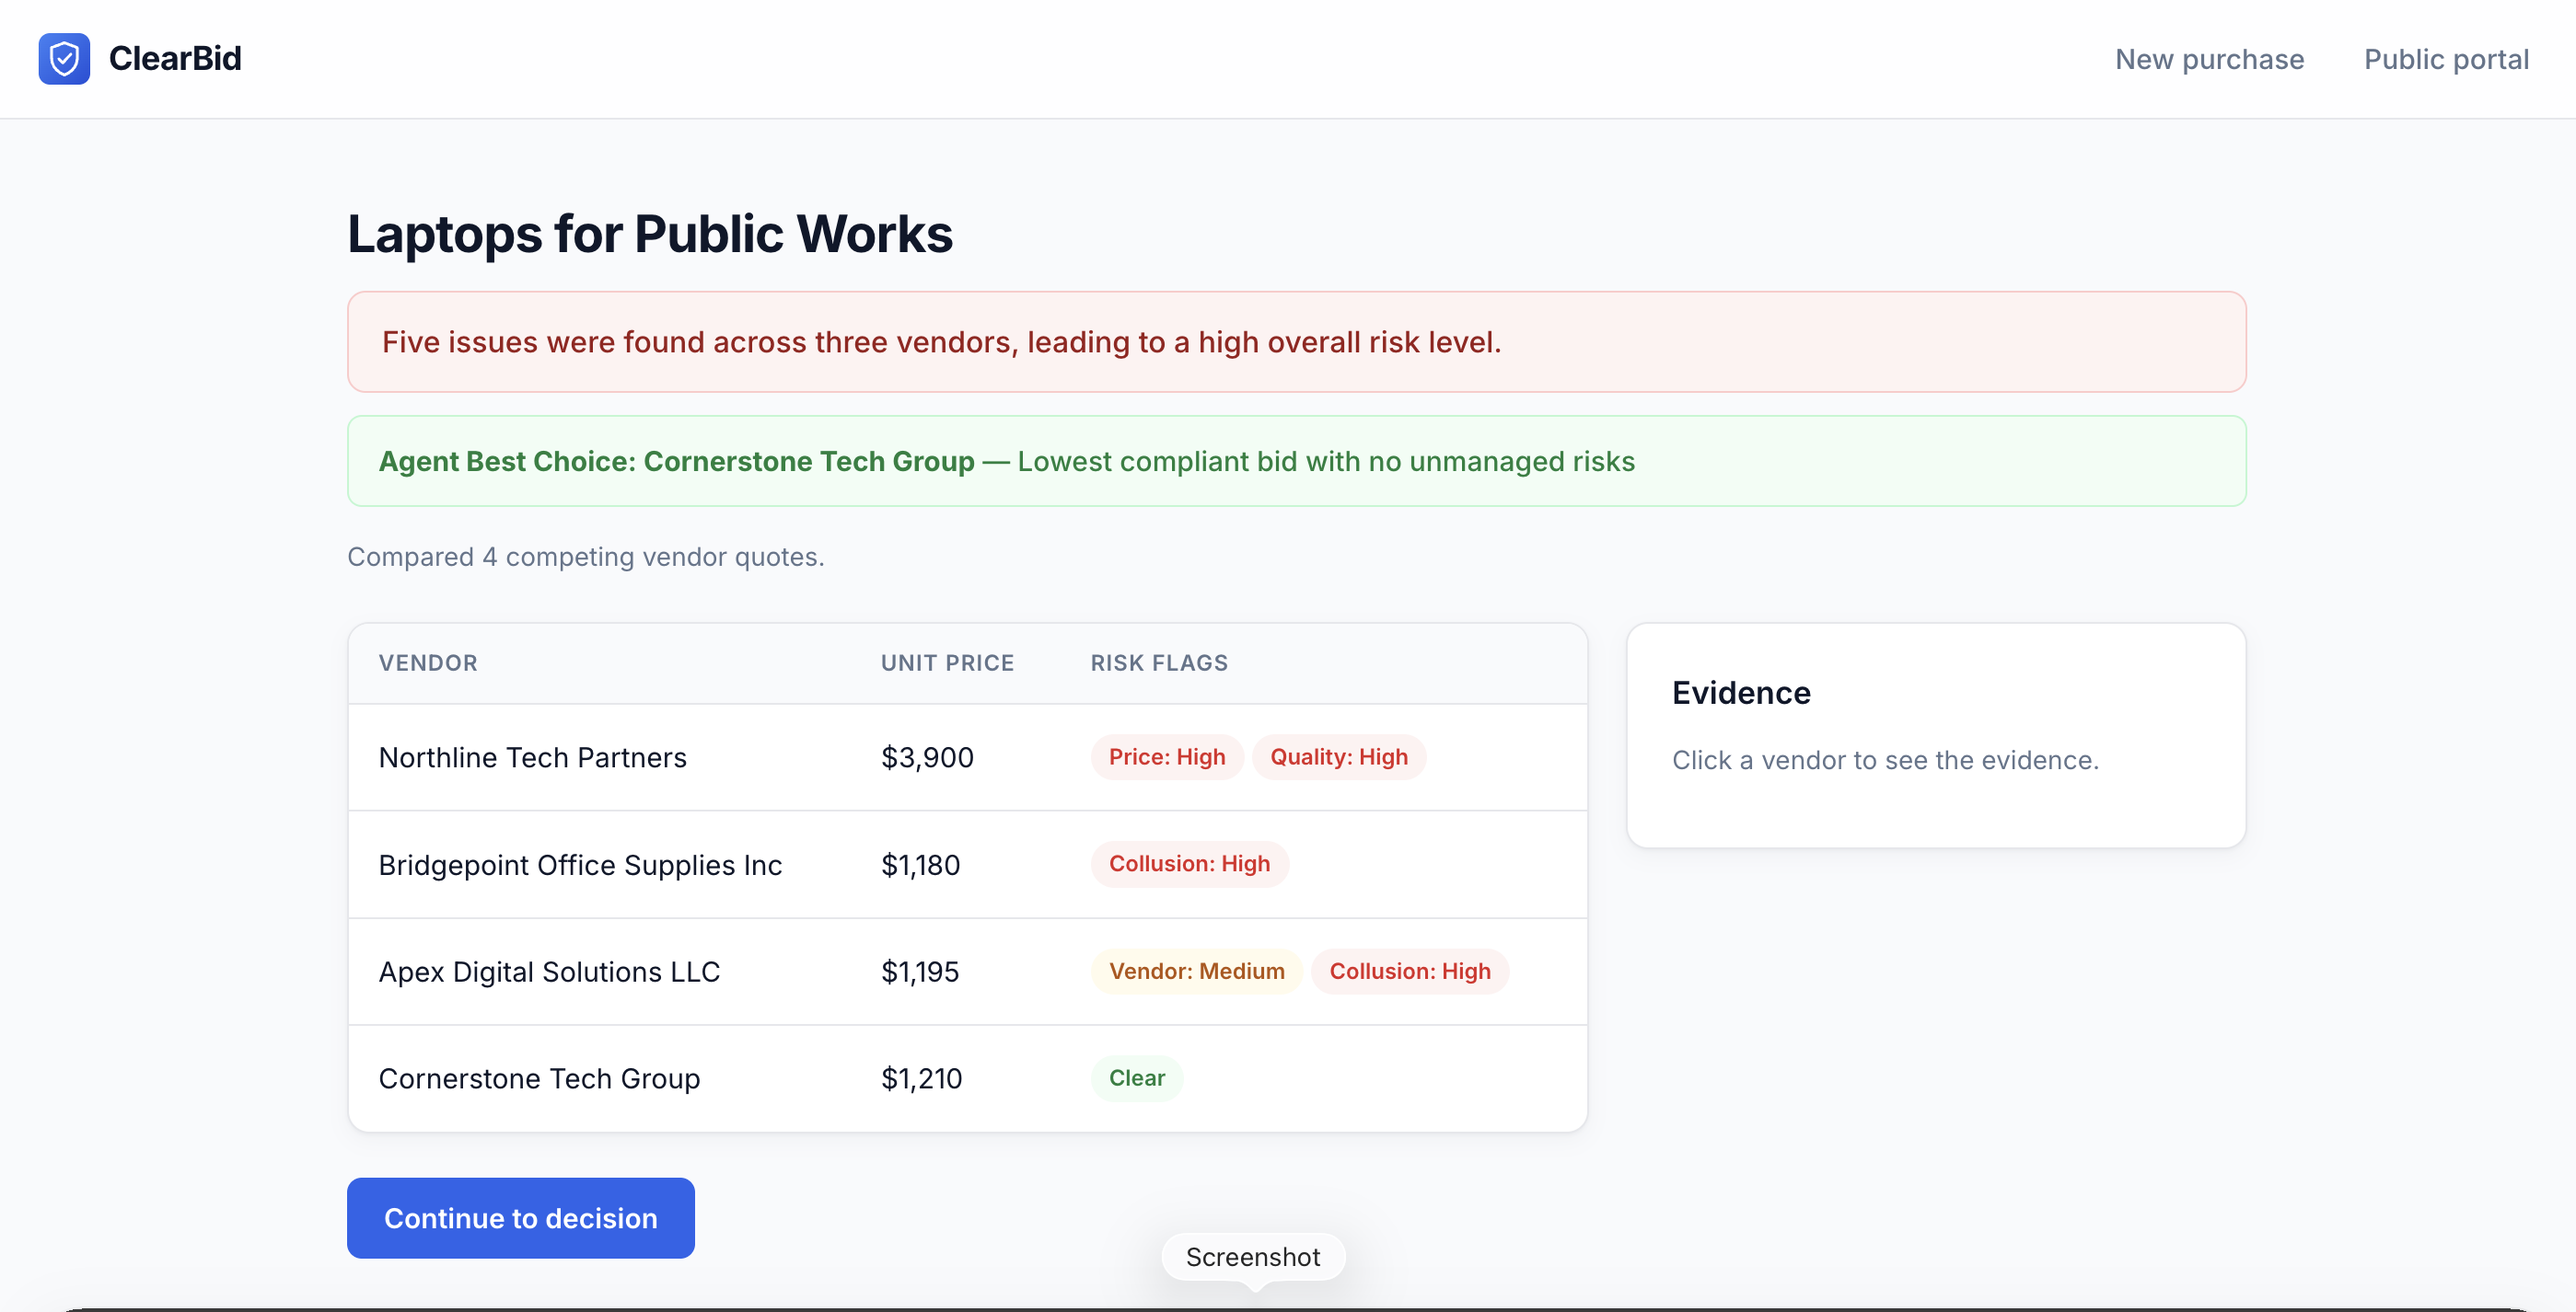
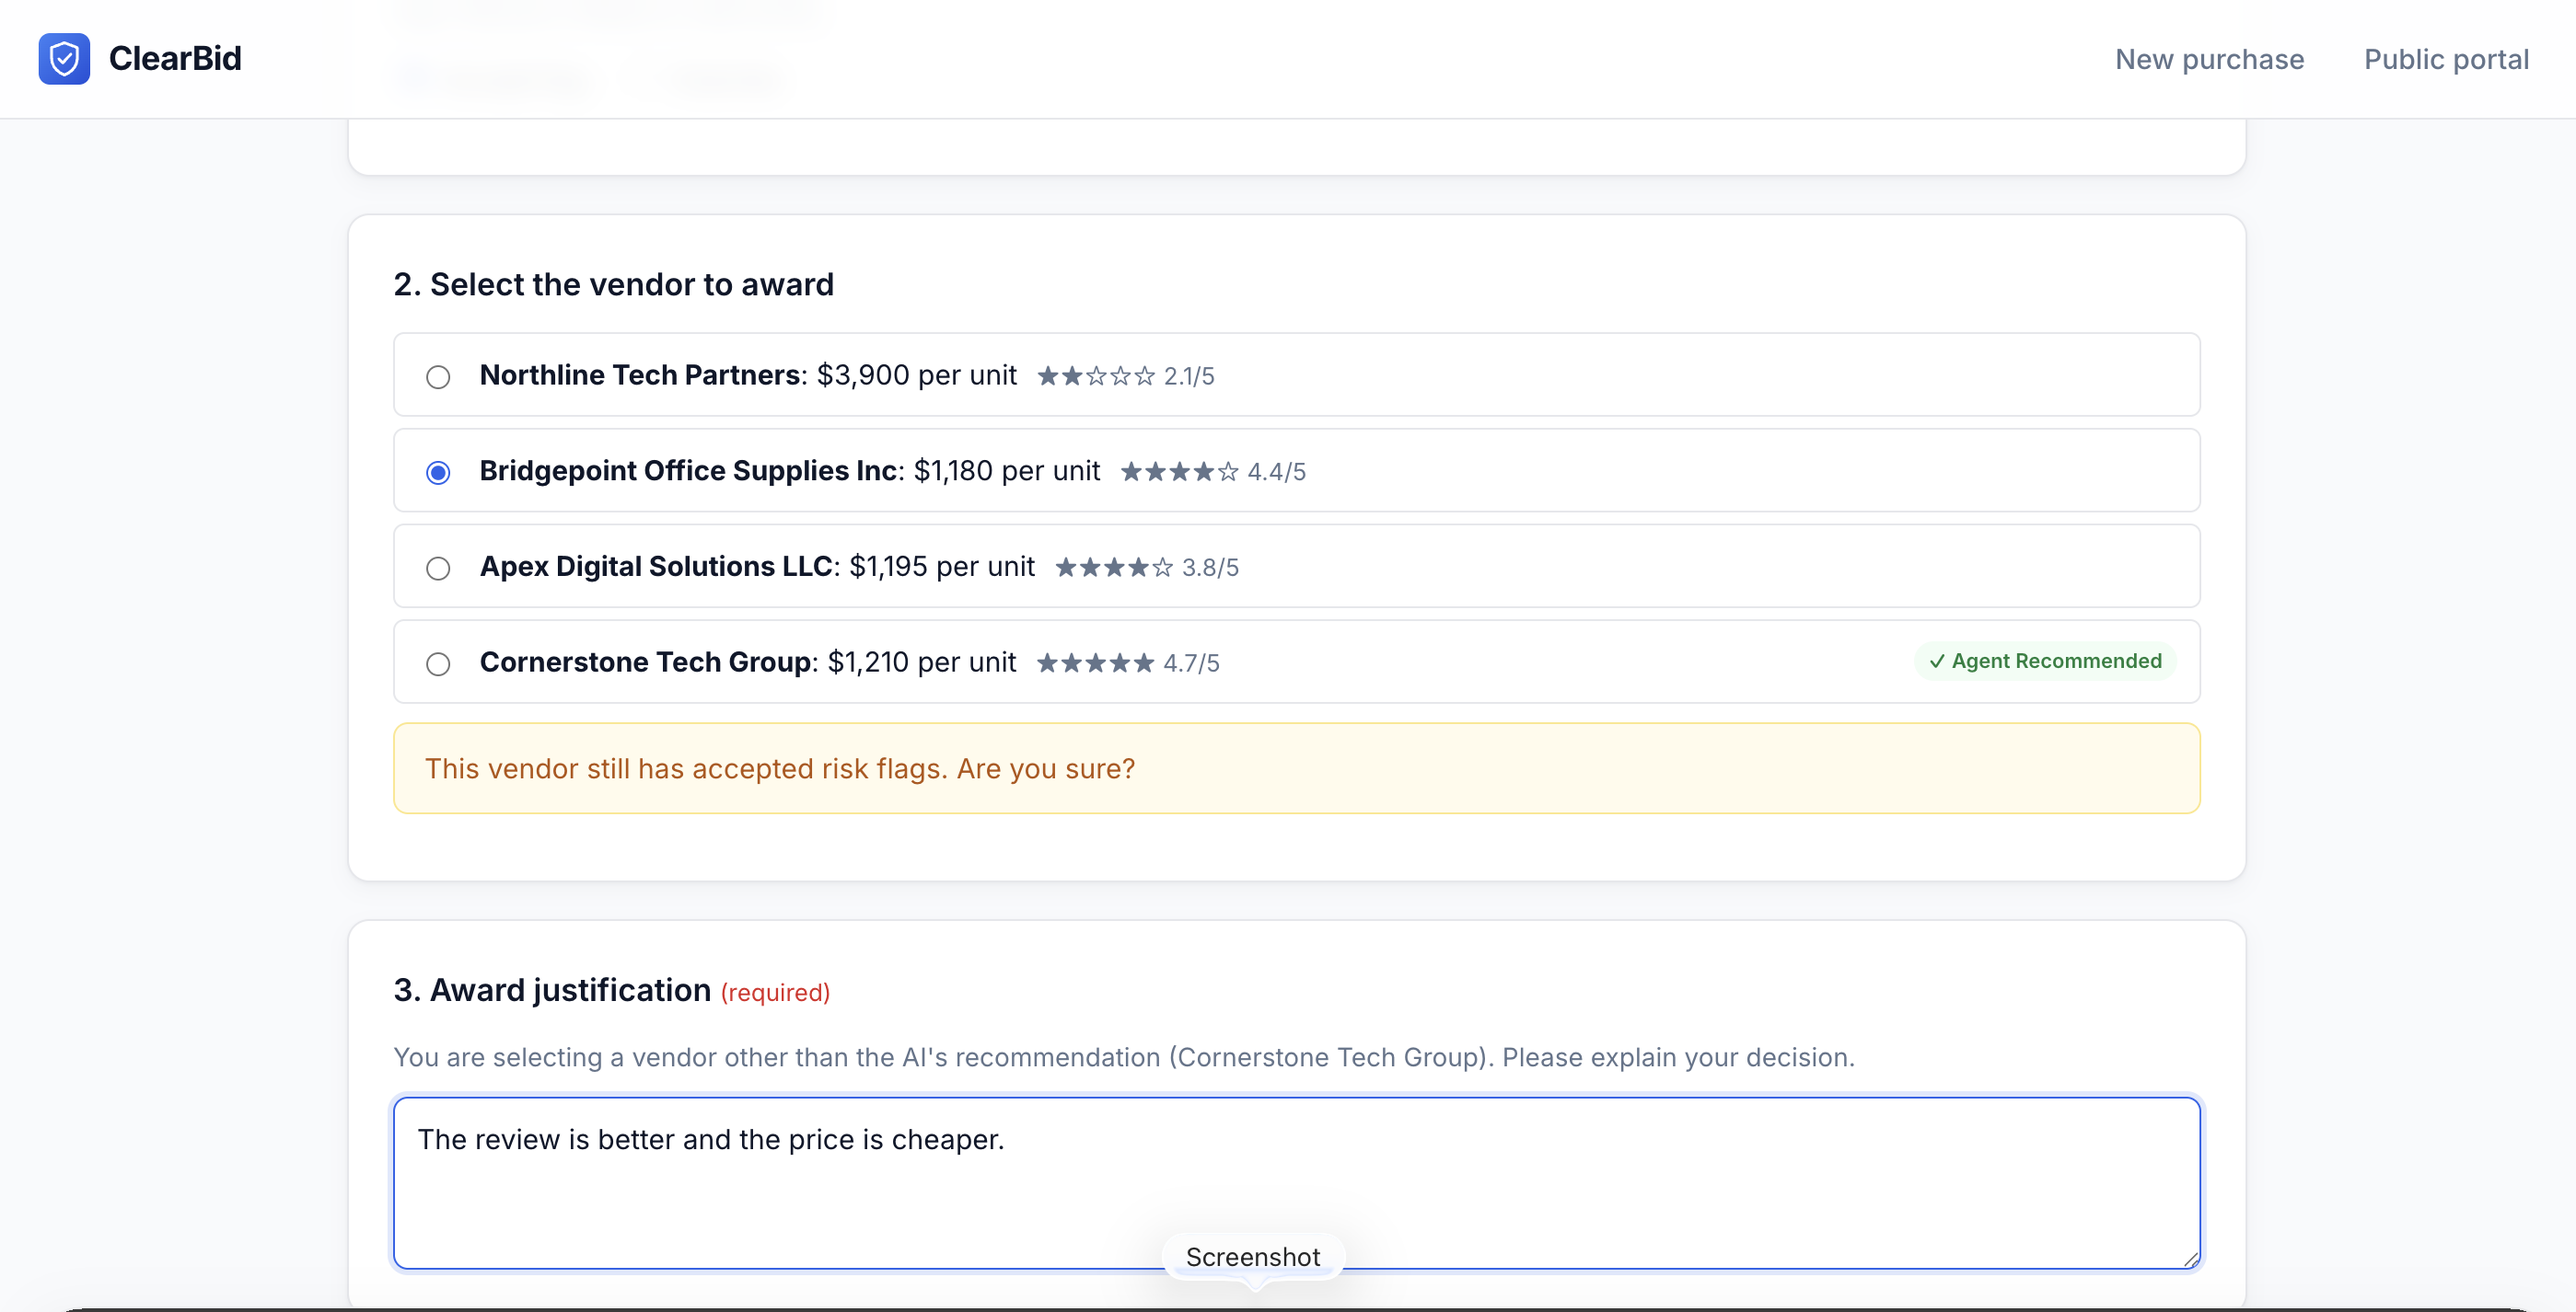
update README.md

diff --git a/README.md b/README.md
@@ -50,6 +50,9 @@ Public: Citizens and journalists
 ### New Purchase Request Page
 ![New Purchase Page](./documents/images/NewPurchaseRequest.png)
 
+### AI Agent Result Page
+![AI Agent Result Page](./documents/images/AgentResultPage.png)
+
 ### Decision Page
 ![Decision Page](./documents/images/DecisionPage.png)
 
